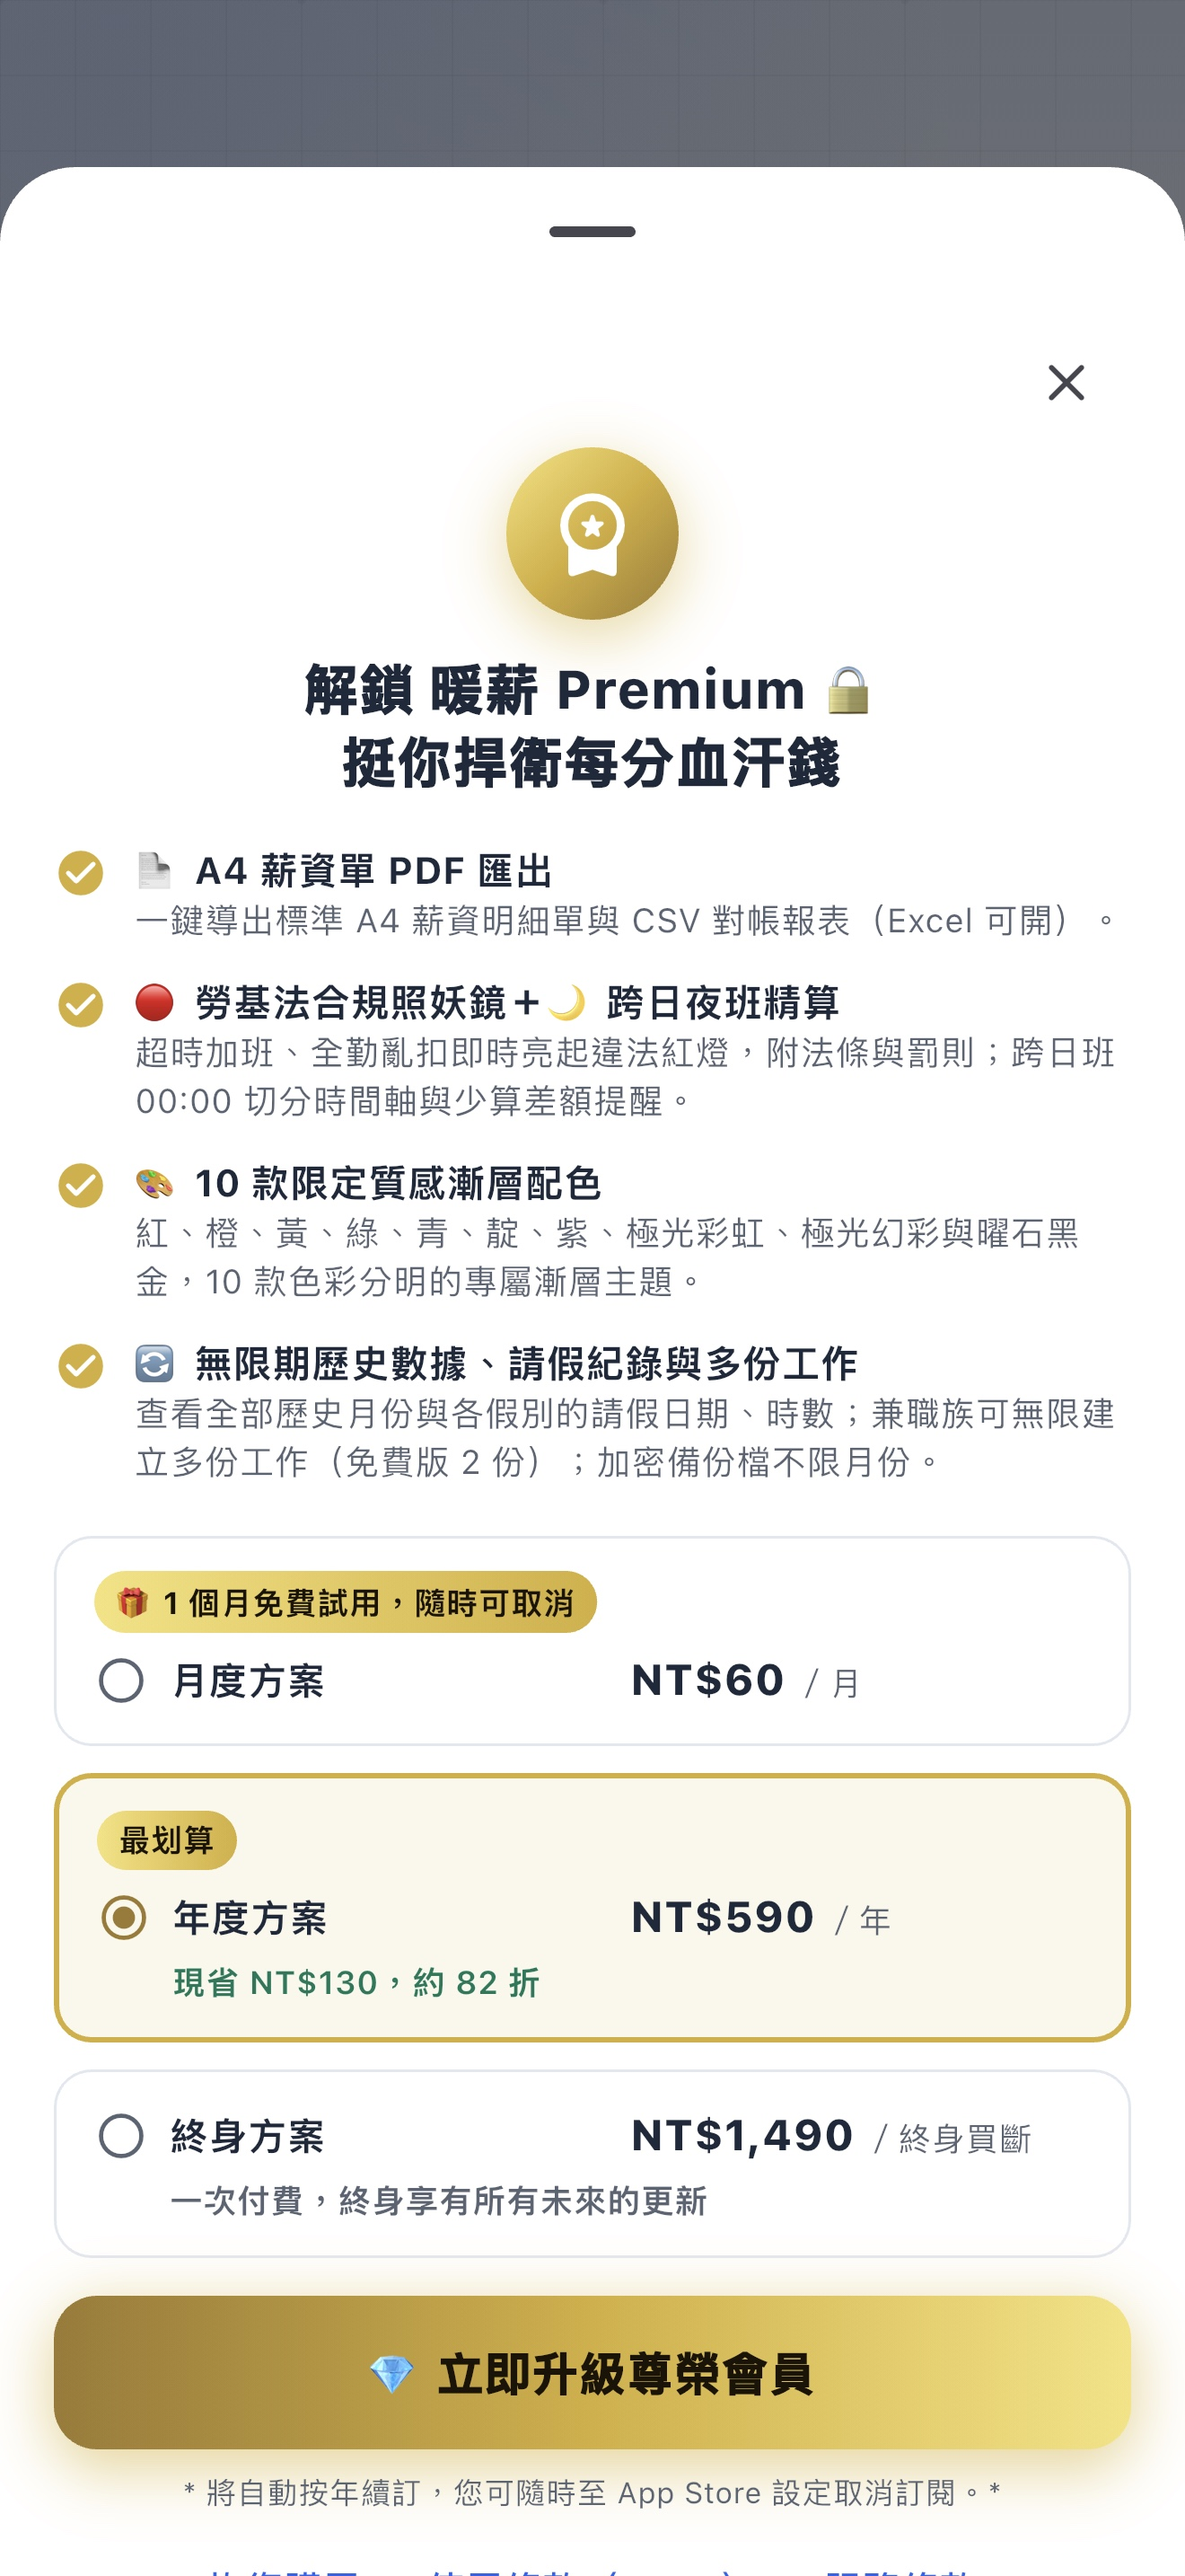
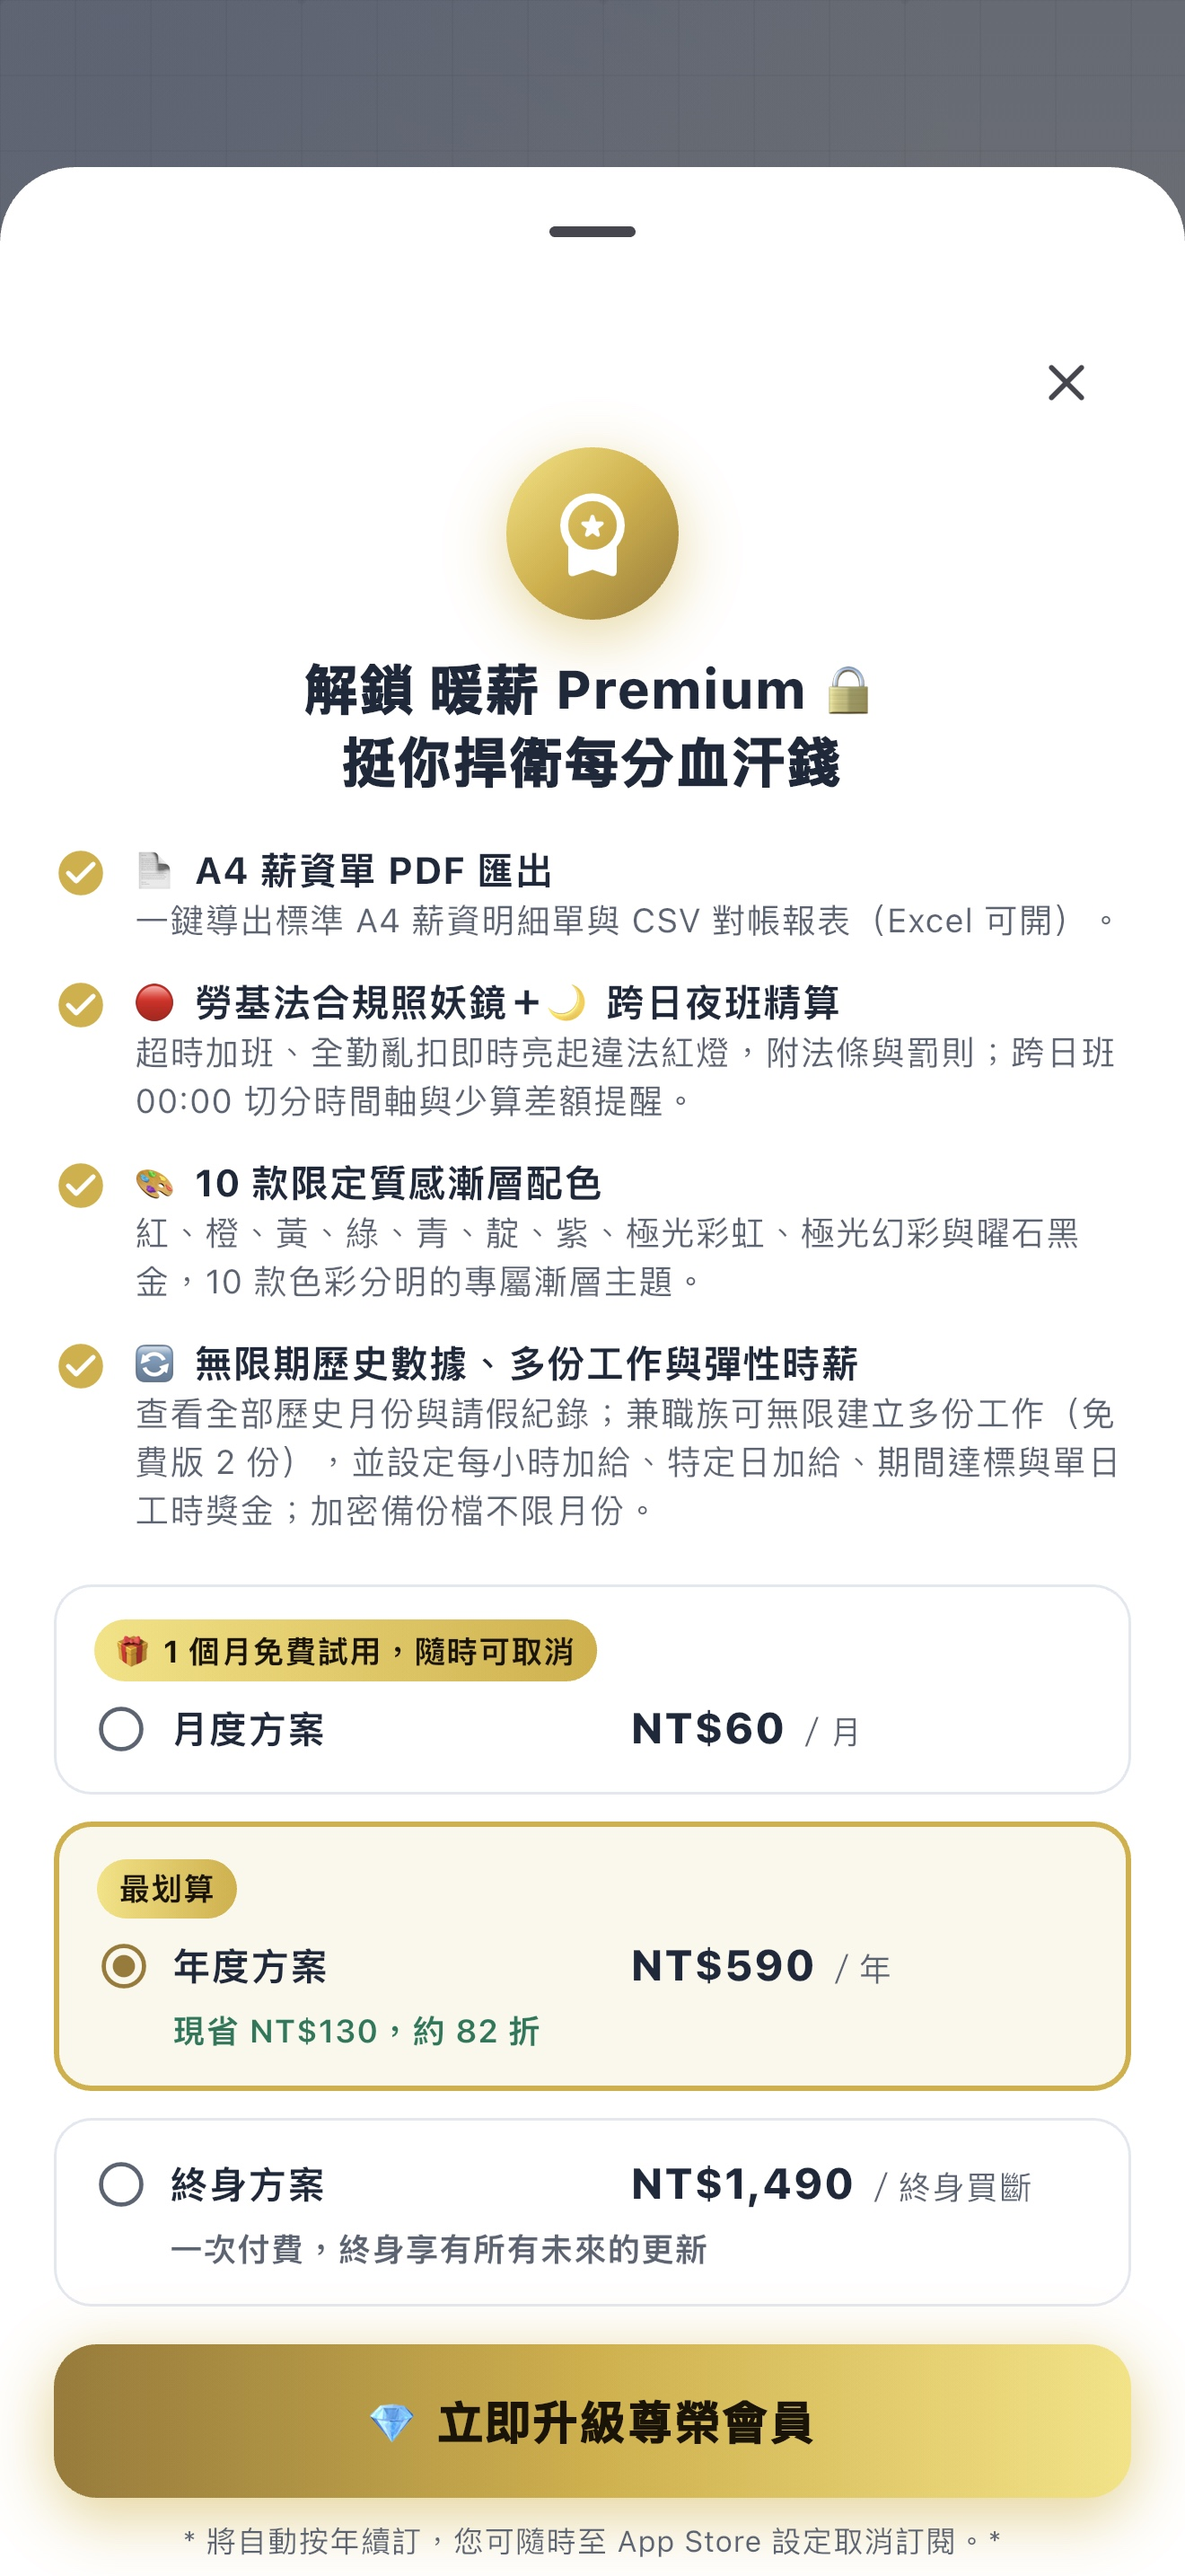
更新：彈性時薪、2026 請假規則、排休休息日；新增 3 張截圖

Changed region(s): [[0.0311, 0.4965, 0.9629, 1.0], [0.7144, 0.7448, 0.7455, 0.7758], [0.0311, 0.7758, 0.0621, 0.8068]]

diff --git a/README.md b/README.md
@@ -29,13 +29,14 @@
 | 類別 | 功能 |
 |---|---|
 | 薪資試算 | 月薪／時薪制；勞保、健保、勞退依官方分級表自動配對；二代健保補充保費、所得稅、職工福利金 |
-| 加班與排班 | 平日、休息日、國定假日、例假日加班費依法定倍率計算；跨日大夜班以 00:00 切分；畫筆式排班月曆 |
-| 請假與特休 | 14 種假別票卡（法定額度、已請、剩餘）；全勤獎金依法按比例扣減；特休年資與未休工資結算 |
+| 加班與排班 | 平日、休息日、國定假日、例假日加班費依法定倍率計算；跨日大夜班以 00:00 切分；畫筆式排班月曆；排休者一週只休一天時，第 6 個上班日自動依休息日計算 |
+| 請假與特休 | 14 種假別票卡（法定額度、已請、剩餘）；全勤獎金依 2026 年新版勞工請假規則按比例扣減；特休年資與未休工資結算 |
 | 勞基法照妖鏡 | 連續出勤、單日超時、月加班超過 46 小時、全勤多扣等即時警示，附法條與罰則 |
 | 多份工作 | 兼職族可建立多份工作各自算薪，大盤顯示全部合計 |
+| 彈性時薪 | 時薪＋每小時加給（每月可不同）、指定日加給、期間達標獎金（例如期間出勤獎金、久任獎勵金）、單日工時獎金（逐級累加或只取最高一級，依公司規範選擇） |
 | 資料安全 | 本機加密儲存、Face ID／指紋鎖、AES-256-GCM 加密備份檔 |
 | 介面 | 霧面科技風、14 款漸層主題、深色模式、大字體、懸浮毛玻璃導覽列、首次開啟功能導覽 |
-| Premium | PDF 薪資單與 CSV 對帳報表、完整法條說明、限定主題、無限歷史月份 |
+| Premium | PDF 薪資單與 CSV 對帳報表、完整法條說明、限定主題、無限歷史月份、彈性時薪 |
 
 ---
 
@@ -53,6 +54,12 @@
 |---|---|---|
 | ![跨日班](screenshots/07_cross_day.jpg) | ![多份工作](screenshots/08_multi_job.jpg) | ![功能導覽](screenshots/09_feature_tour.jpg) |
 
+| 期間達標獎金 | 單日工時獎金 | 加班費對帳 |
+|---|---|---|
+| ![期間達標獎金](screenshots/10_period_bonus.jpg) | ![單日工時獎金](screenshots/11_daily_bonus.jpg) | ![加班費對帳](screenshots/12_overtime_compare.jpg) |
+
+（截圖為示範資料，公司名稱為虛構。）
+
 App 預覽影片：[app_preview.mp4](screenshots/app_preview.mp4)
 
 ---
@@ -67,6 +74,7 @@ App 預覽影片：[app_preview.mp4](screenshots/app_preview.mp4)
 ### 勞基法計算設計
 - **計算核心與畫面分離**：所有法規計算集中在一個純 Dart 的模型層，不依賴任何 UI、網路或檔案，因此每條規則都能用單元測試驗證
 - **每月一份帳本**：設定可「沿用到之後的月份，直到修改該月」，符合薪資每月可能調整的實際情況
+- **依日期計算工資**：每一天可以有自己的每小時加給，加班費以「當天的平日每小時工資額」乘以倍率；達標獎金由排班、加班與請假紀錄即時推算，不另外存一份可能過期的結果
 - **法規資料化**：勞健保分級表、最低工資、國定假日以資料表維護，內建當年度資料、可線上更新並加密快取；法源條號直接寫在程式註解與 App 內說明
 - **跨日班引擎**：以 00:00 為界切分每一段出勤，分別判斷平日、休息日、國定假日與例假日，再套用各自的倍率
 
@@ -89,6 +97,9 @@ App 預覽影片：[app_preview.mp4](screenshots/app_preview.mp4)
 | 挑戰 | 解法 |
 |---|---|
 | **法規改版**：2026 年新版勞工請假規則改變了病假與全勤獎金的關係 | 計算規則集中在模型層，修改一處即可；同步更新 App 內法條說明，並用測試鎖定「病假 1 天、全勤 $3,000 → 最多扣 $100」等案例 |
+| **使用者的真實薪資比 App 設想的複雜**：派遣時薪人員有逐時加給、指定日加碼、期間達標獎金與單日分級獎金 | 依使用者回饋重新設計「彈性時薪」：每小時加給跟著每月設定、特定日加給記在月曆上、達標獎金自動計算進度；分級獎金的發放方式各公司不同，所以讓使用者依公司規範選擇，而不是由 App 假設 |
+| **公司的加班費算法和法條不一致**：常見「時薪 × 倍率 ＋ 加給」，比法定算法少 | App 依勞基法第 24 條計算，同時列出公司常見算法與差額，並提示可撥打 1955 確認，不直接替使用者下法律結論 |
+| **排休的人沒有固定休息日** | 以週一到週日為一週動態判定：只休一天時，第 6 個出勤日視為休息日、第 7 個視為例假，並在月曆上標示 |
 | **跨日大夜班**：22:00～06:00 的班跨過午夜，甚至跨進國定假日 | 設計獨立的跨日引擎，以 00:00 切成兩段分別計算，並在少算時提醒使用者 |
 | **多份工作要加功能，但不能動到舊使用者的資料** | 主要工作沿用原本的儲存位置，新工作使用獨立命名空間；備份格式升版但仍能還原舊檔 |
 | **StoreKit 只告訴 App「有沒有試用資格」，不告訴天數** | 試用標籤與商店後台設定集中在一個常數，並寫進上架檢查清單與測試，避免兩邊不一致被退件 |
@@ -102,8 +113,9 @@ App 預覽影片：[app_preview.mp4](screenshots/app_preview.mp4)
 
 ## 測試方式
 
-- **單元與畫面測試：700 項以上**，每次提交與部署前都必須全部通過
+- **單元與畫面測試：730 項以上**，每次提交與部署前都必須全部通過
   - 勞基法計算：加班倍率、請假扣薪、全勤比例扣減、勞健保級距、二代健保、所得稅、特休年資、跨日班
+  - 彈性時薪：以使用者回饋的實際數字建立測試案例（例如時薪 210＋加給 40 的加班 1 小時應為 335、公司算法 321.4；上滿 12 小時的分級獎金逐級累加 1,700、取最高 800）
   - 畫面：7 種手機尺寸 × 1.0／1.3 倍字體捲到底不溢位；14 款主題 × 深淺色對比度
   - 購買流程：付款成功、取消、處理中、掉單補發、恢復購買、兌換代碼（以模擬商店測試）
   - 備份：加密、解密、密碼錯誤、新舊格式相容
